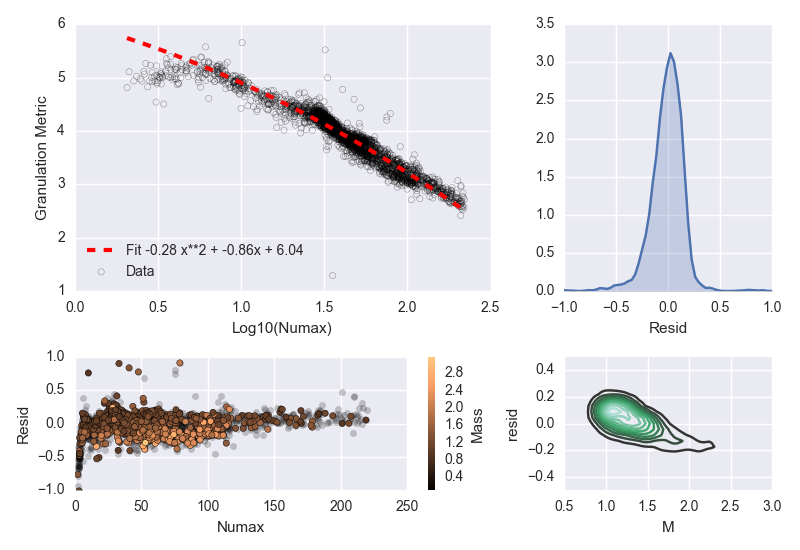
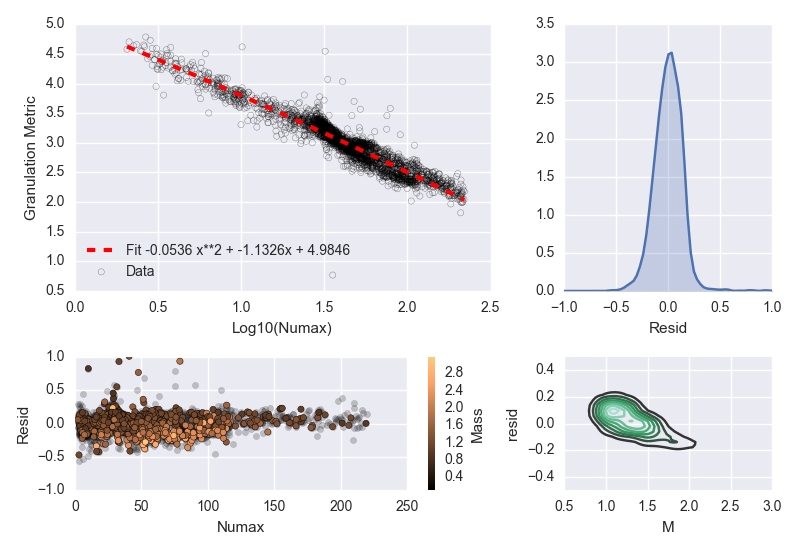
Recalibrated on new white estimate

diff --git a/get_data.py b/get_data.py
@@ -15,10 +15,8 @@ from K2ps_flicker import PS_FLICKER
 if __name__ == "__main__":
     apo =  APOKASC('APOKASC_cat_v3.1.7.txt')
     data_dir = '/home/davies/Dropbox//K2_seismo_pipes/APOKASC_stars/Data/'
-    vars_dict = {'Flicker': [['w100', 'mean1', 'med1', 'std1'],[0.5, 288.0, 100]], \
-                 'lowf': [['w1000', 'meanlf', 'medlf', 'stdlf'],[0.5, 10.0, 1000]], \
-                 'lowb': [['w10', 'meanlb', 'medlb', 'stdlb'],[10.0, 20.0, 10]]}
-    cols = ['KIC', 'Numax', 'M']
+    vars_dict = {'Flicker': [['w100', 'mean1'],[0.5, 288.0, 250.0]]}
+    cols = ['KIC', 'Numax', 'M', 'Z']
     for n in vars_dict:
         cols = cols + vars_dict[n][0]
     results = pd.DataFrame(columns=cols)
@@ -34,11 +32,11 @@ if __name__ == "__main__":
                 ds.read_timeseries(sigma_clip=4.0)
                 ds.power_spectrum()
                 method = PS_FLICKER(ds)
-                res = [row.KEPLER_ID, row.NU_MAXRG, row.DR10_S1_MASS]
+                res = [row.KEPLER_ID, row.NU_MAXRG, row.DR10_S1_MASS, row.FE_H_ADOP_COR]
                 for n in vars_dict:
                     tmp = vars_dict[n][1]
-                    w, m, mm, s = method.get_metric(low_f=tmp[0], high_f=tmp[1], white_npts=tmp[2])
-                    res += [w, m, mm, s]
+                    w, m = method.get_metric(low_f=tmp[0], high_f=tmp[1], white=tmp[2])
+                    res += [w, m]
                 results.loc[len(results)] = res
             except:
                 print("Failed on ", row.KEPLER_ID)

diff --git a/calibrate.py b/calibrate.py
@@ -16,9 +16,10 @@ if __name__ == "__main__":
     
     x = rg.LogNumax.values
 #    y = np.log(rg.Metric1.values + rg.Metric2.values + rg.Metric3.values)
-    y = np.log10(rg.medlf - rg.w100)
+    y = np.log10(np.abs(rg.mean1 - rg.w100))
+    res1 = np.polyfit(y[x > 0.8], x[x > 0.8], 2)
+    print(res1)
     res = np.polyfit(x[x > 0.8], y[x > 0.8], 2)
-    print(res)
     
     fig = plt.figure()
     gs = gridspec.GridSpec(2, 2, width_ratios=(4,2), height_ratios=(4,2))
@@ -29,7 +30,7 @@ if __name__ == "__main__":
                 alpha=0.5, s=20, label='Data')
     xind = np.linspace(x.min(), x.max(), 100)
     fit = np.poly1d(res)(xind)
-    ax1.plot(xind, fit, 'r--', lw=3, label='Fit {:.2f} x**2 + {:.2f}x + {:.2f}'.format(*res))
+    ax1.plot(xind, fit, 'r--', lw=3, label='Fit {:.4f} x**2 + {:.4f}x + {:.4f}'.format(*res))
     ax1.set_xlabel('Log10(Numax)')
     ax1.set_ylabel('Granulation Metric')
     ax1.legend(loc=3)
